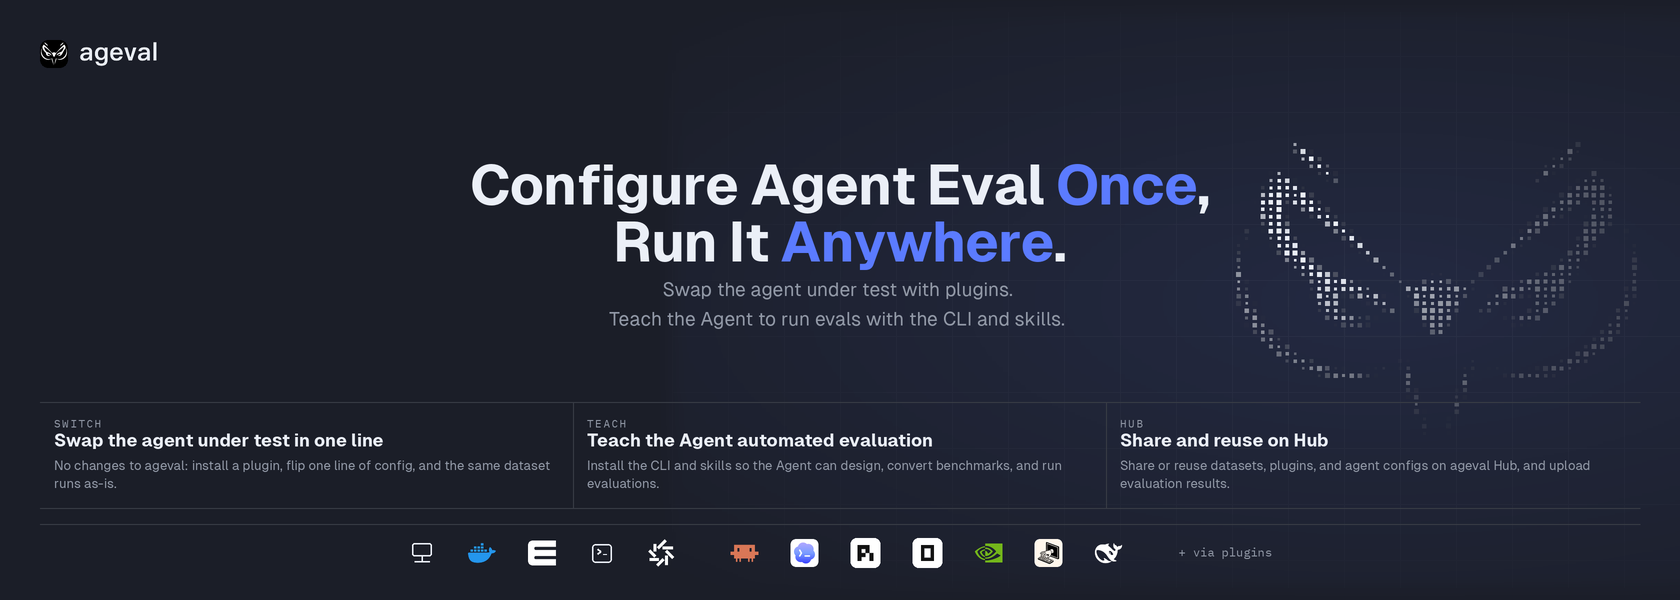
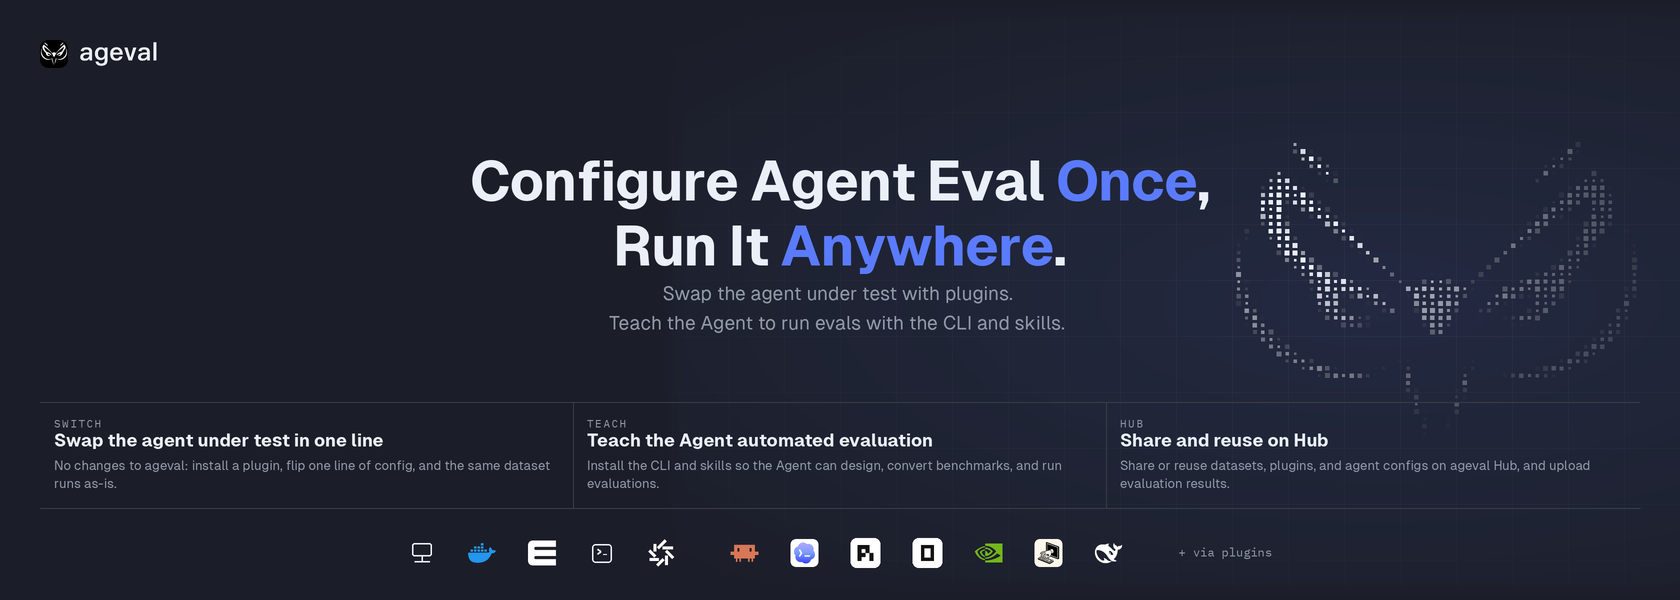
docs(assets): only bake README hero posters and open the title gap
- Overwrite docs/assets/hero.png and hero.zh-CN.png; stop writing @2x and 900-wide sidecars
- Widen the two title lines (16px at 1x) and trim the export notes

Changed region(s): [[0.2786, 0.27, 0.7119, 0.57]]

diff --git a/docs/assets/hero-source/render_hero.py b/docs/assets/hero-source/render_hero.py
@@ -20,12 +20,15 @@ from pathlib import Path
 from PIL import Image, ImageChops, ImageDraw, ImageFilter, ImageFont, ImageOps
 
 ROOT = Path(__file__).resolve().parent
-ASSETS = ROOT.parent
+ASSETS = ROOT.parent  # docs/assets — overwrites README posters
+HERO_NAME = {"en": "hero.png", "zh": "hero.zh-CN.png"}
 MARKS = ROOT / "marks"
 FONTS = ROOT / "fonts"
 GLYPHS = ROOT
 ZH_GLYPHS = ROOT
 OWL_PNG = ROOT / "owl-black.png"
+
+
 def _rsvg_bin() -> str:
     for cand in (
         shutil.which("rsvg-convert"),
@@ -87,6 +90,7 @@ MONO_REG = FONTS / "IBMPlexMono-Regular.ttf"
 
 TITLE_1X = 56
 TITLE_TRACK = -0.02
+TITLE_GAP_1X = 16  # space between the two title lines (was 8)
 NOTE_1X = 19
 NOTE_MAX_W = 720
 PACT_KICKER = 11
@@ -668,7 +672,7 @@ def measure_headline_h(locale: str) -> int:
     n_h = nbb[3] - nbb[1]
     n_lh = int(round(s(NOTE_1X) * 1.55))
     notes = split_note(COPY[locale]["note"])
-    return th + s(8) + th + s(20) + n_lh * (len(notes) - 1) + n_h
+    return th + s(TITLE_GAP_1X) + th + s(20) + n_lh * (len(notes) - 1) + n_h
 
 
 def headline_top(locale: str) -> int:
@@ -721,7 +725,7 @@ def draw_headline(im: Image.Image, locale: str, title_y: int) -> Image.Image:
     th = d.textbbox((0, 0), "Hg", font=tf)
     th = th[3] - th[1]
     draw_accent_line(d, title_y, copy["titleA"], copy["accentA"], tf, track)
-    y2 = title_y + th + s(8)
+    y2 = title_y + th + s(TITLE_GAP_1X)
     draw_accent_line(d, y2, copy["titleB"], copy["accentB"], tf, track)
     nbb = d.textbbox((0, 0), "Hg", font=nf)
     n_lh = int(round(s(NOTE_1X) * 1.55))
@@ -784,8 +788,6 @@ def draw_marquee(im: Image.Image, logos: dict[str, Image.Image], rule_y: int, lo
     d = ImageDraw.Draw(im)
     pad_x = s(PAD_1X)
     inner_w = W - pad_x * 2
-    border = CREAM + (BORDER_A,)
-    d.line([(pad_x, rule_y), (pad_x + inner_w, rule_y)], fill=border, width=max(1, s(1)))
     label = COPY[locale]["plugins"]
     mf = sc_font(False, s(12)) if locale == "zh" else font(MONO_REG, s(12))
     plug_w = int(d.textlength(label, font=mf))
@@ -831,20 +833,12 @@ def save_locale(locale: str) -> None:
     im = render(locale)
     rgb = Image.new("RGB", im.size, INK)
     rgb.paste(im, mask=im.split()[-1])
-    src = ROOT
-    tag = "zh" if locale == "zh" else "en"
-    two_x = src / f"hero-{tag}@2x.png"
-    rgb.save(two_x, "PNG", optimize=True, compress_level=9)
     hero = rgb.resize((W1, H1), Image.Resampling.LANCZOS)
-    hero_name = "hero.zh-CN.png" if locale == "zh" else "hero.png"
-    hero_path = ASSETS / hero_name
+    hero_path = ASSETS / HERO_NAME[locale]
     hero.save(hero_path, "PNG", optimize=True, compress_level=9)
-    p900_h = int(round(H1 * 900 / W1))
-    p900 = hero.resize((900, p900_h), Image.Resampling.LANCZOS)
-    p900_name = "hero-preview-900.zh-CN.png" if locale == "zh" else "hero-preview-900.png"
-    p900.save(src / p900_name, "PNG", optimize=True, compress_level=9)
     print(
-        f"{locale} {hero.size} {hero_path.stat().st_size / 1024:.0f}KB "
+        f"{locale} {hero.size} -> {hero_path} "
+        f"{hero_path.stat().st_size / 1024:.0f}KB "
         f"title_y={headline_top(locale)} pact_h={measure_pact_h(locale)}"
     )
 

diff --git a/docs/assets/hero-source/README.md b/docs/assets/hero-source/README.md
@@ -1,10 +1,13 @@
 # README hero source
 
-`../hero.png` and `../hero.zh-CN.png` are composed by `render_hero.py` (Pillow, 1680×600, bake at 2× then LANCZOS).
+`render_hero.py` bakes the README posters (Pillow, 1680×600, compose at 2× then LANCZOS) and overwrites:
+
+- `docs/assets/hero.png`
+- `docs/assets/hero.zh-CN.png`
 
 This folder is the editable source: copy, type size, and owl position live in the script. Lockup is `owl-black.png` / `owl-black.svg`; pixel wash is `owl-wash.png` (also generated in-script).
 
-## Export on this Mac
+## Export
 
 Needs Pillow and `rsvg-convert` (`brew install librsvg`). Homebrew Python has no Pillow, so use the local venv:
 
@@ -15,10 +18,4 @@ python3 -m venv .venv          # once
 .venv/bin/python render_hero.py
 ```
 
-`rsvg-convert` is resolved from PATH, then `/opt/homebrew/bin`. Outputs:
-
-- `docs/assets/hero.png`
-- `docs/assets/hero.zh-CN.png`
-- `hero-en@2x.png` / `hero-zh@2x.png` and 900-wide previews stay in this folder (gitignored)
-
-`.venv/` is gitignored. Do not commit unless asked.
+Output names match the README embeds. `rsvg-convert` is resolved from PATH, then Homebrew. `.venv/` is gitignored.
